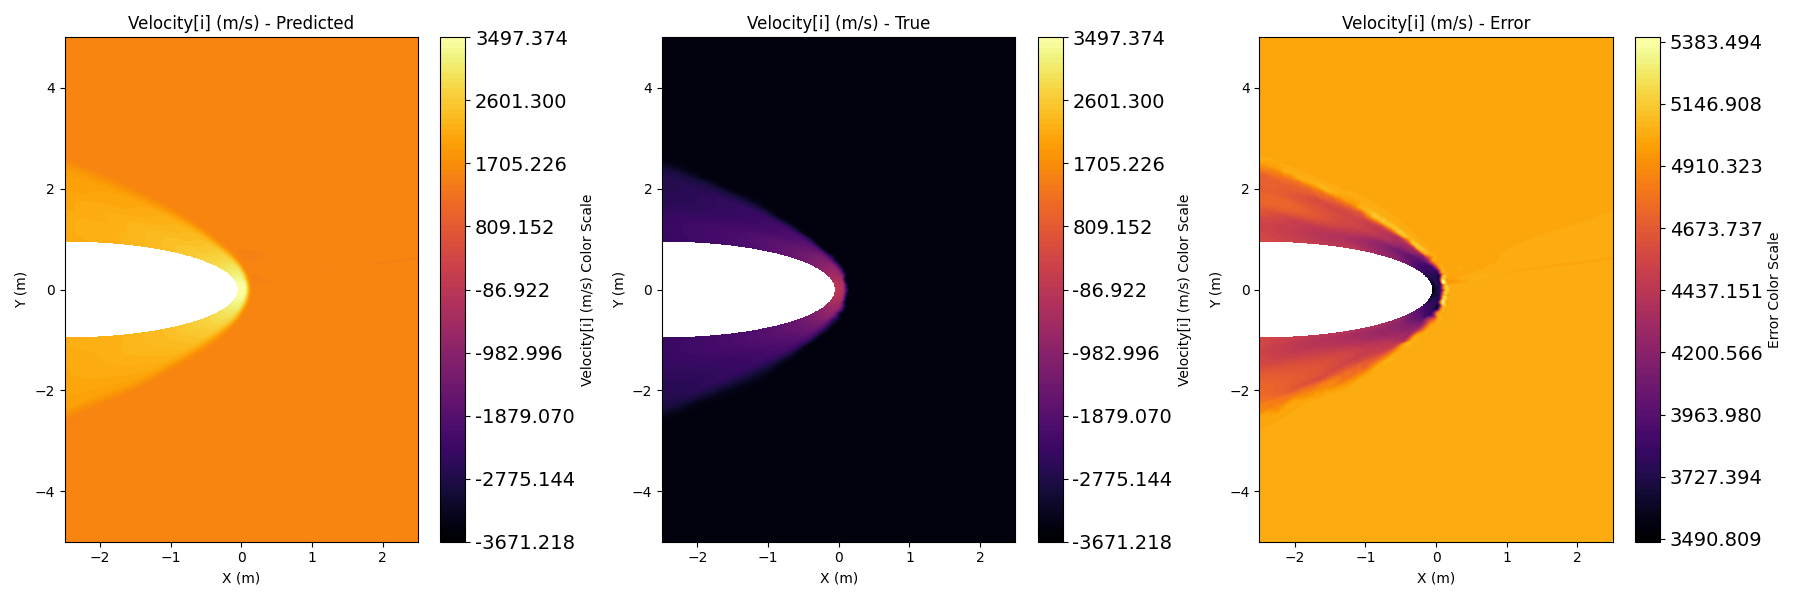
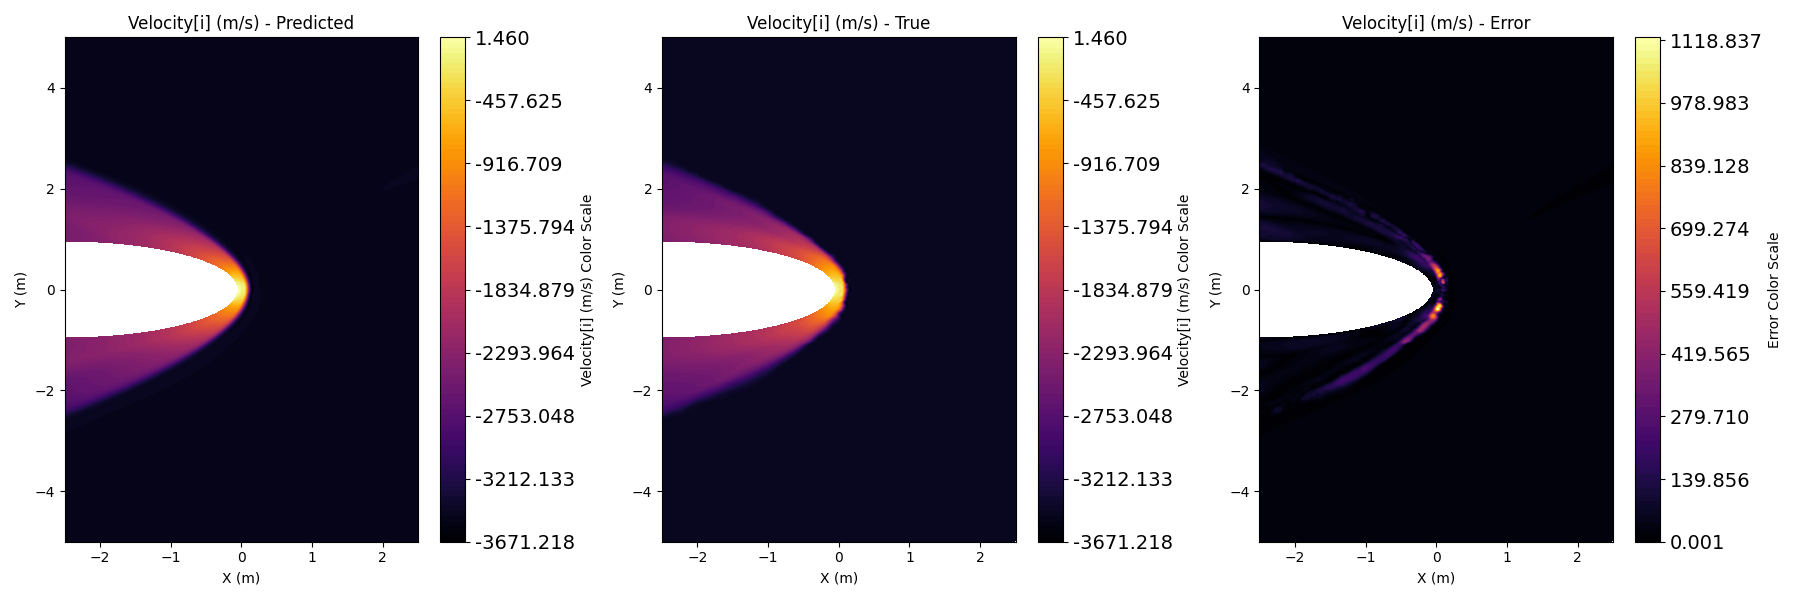
realized processed data was causing problems. be sure to save that as one of the outputs for each project

diff --git a/tests/test_trainer.py b/tests/test_trainer.py
@@ -18,7 +18,7 @@ def create_loaders():
 def test_trainer_single_epoch():
     loader = create_loaders()
     model = FusionDeepONet(3, 1, 8, 2, 5)
-    trainer = Trainer(model, loader, device="cpu", lr=1e-3)
+    trainer = Trainer(project_name="test_project", model=model, dataloader=loader, device="cpu", lr=1e-3)
     train_hist, test_hist = trainer.train(loader, loader, num_epochs=1, print_every=1)
     assert len(train_hist) == len(test_hist) == 1
 
@@ -44,7 +44,7 @@ def create_simple_loader():
 def test_evaluate():
     loader = create_simple_loader()
     model = DummyModel()
-    trainer = Trainer(model, loader, device="cpu", lr=0.0)
+    trainer = Trainer(project_name="test_project", model=model, dataloader=loader, device="cpu", lr=1e-3)
     loss = trainer.evaluate(loader)
     expected = torch.mean((torch.zeros(4, 1) - torch.ones(4, 1)) ** 2)
     assert torch.isclose(torch.tensor(loss), expected)
@@ -53,17 +53,10 @@ def test_evaluate():
 def test_train_no_update():
     loader = create_simple_loader()
     model = DummyModel()
-    trainer = Trainer(model, loader, device="cpu", lr=0.0)
+    trainer = Trainer(project_name="test_project", model=model, dataloader=loader, device="cpu", lr=1e-3)
     train_hist, _ = trainer.train(loader, loader, num_epochs=1, print_every=1)
     assert len(train_hist) == 1
-    assert abs(train_hist[0] - trainer.evaluate(loader)) < 1e-6
+    assert abs(train_hist[0] - trainer.evaluate(loader)) < 1
 
 
-def test_save_and_load_model(tmp_path):
-    loader = create_loaders()
-    model = DummyModel()
-    trainer = Trainer(model, loader, device="cpu", lr=0.0)
-    trainer.save_model(path=str(tmp_path / "m.pt"))
-    model.w.data.fill_(5.0)
-    trainer.load_model(str(tmp_path / "m.pt"))
-    assert torch.allclose(model.w, torch.zeros(1))
+

diff --git a/src/postprocess/base_postprocess.py b/src/postprocess/base_postprocess.py
@@ -5,9 +5,9 @@ class BasePostprocess:
         if path_true is None:
             self.df_true = None
         else:
-            self.df_true = pd.read_csv(path_true)#.drop(columns=param_columns)
+            self.df_true = pd.read_csv(path_true)
         df_pred = pd.read_csv(path_pred)
-        self.df_pred = df_pred[["Velocity[i] (m/s)", "Velocity[j] (m/s)", "Velocity[k] (m/s)",
-                        "Absolute Pressure (Pa)", "Density (kg/m^3)", "X (m)", "Y (m)", "Z (m)"]]
+        self.df_pred = df_pred[["Density (kg/m^3)", "Velocity[i] (m/s)", "Velocity[j] (m/s)", "Velocity[k] (m/s)",
+                        "Absolute Pressure (Pa)", "X (m)", "Y (m)", "Z (m)"]]
         self.errors = {}
         self.project_name = project_name

diff --git a/tests/test_preprocess.py b/tests/test_preprocess.py
@@ -72,11 +72,8 @@ def test_preprocess_load_and_pad_2D(preprocess_instance2D):
     assert preprocess_instance2D.outputs_mean is not None
     assert preprocess_instance2D.outputs_std is not None
 
-def test_param_reduction(preprocess_instance2D):
-    preprocess_instance2D.load_and_pad()
-    _, _, params = preprocess_instance2D.to_numpy()
-    assert params.shape[1] == 1
-    assert np.isclose(params[0,0], 0.5)
+
+    
 
 def test_preprocess_load_and_pad_3D(preprocess_instance3D):
     preprocess_instance3D.load_and_pad()

diff --git a/main.py b/main.py
@@ -6,6 +6,8 @@ if __name__ == "__main__":
     
     
     surrogate = Surrogate(config_path="configs/config_ellipse_super_computer.yaml")
-    surrogate._train()
+    surrogate._infer_and_validate(file="Data/ellipse_data/ellipse_data_unseen2.csv", shape="ellipse")
+    
+
 
 
